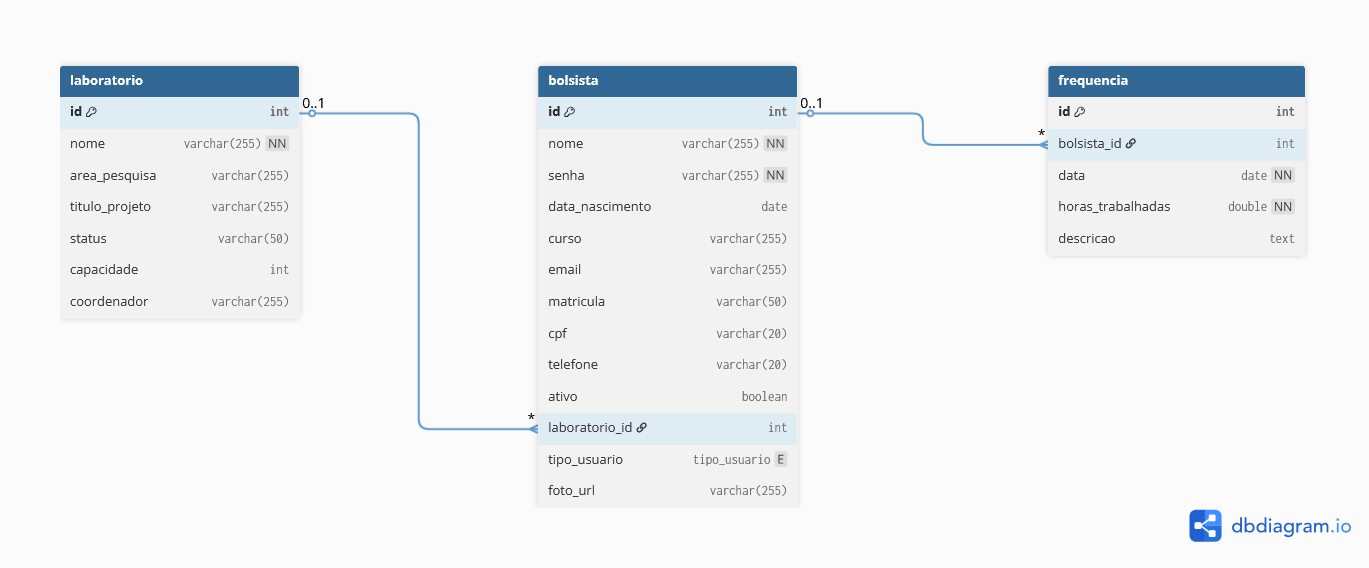
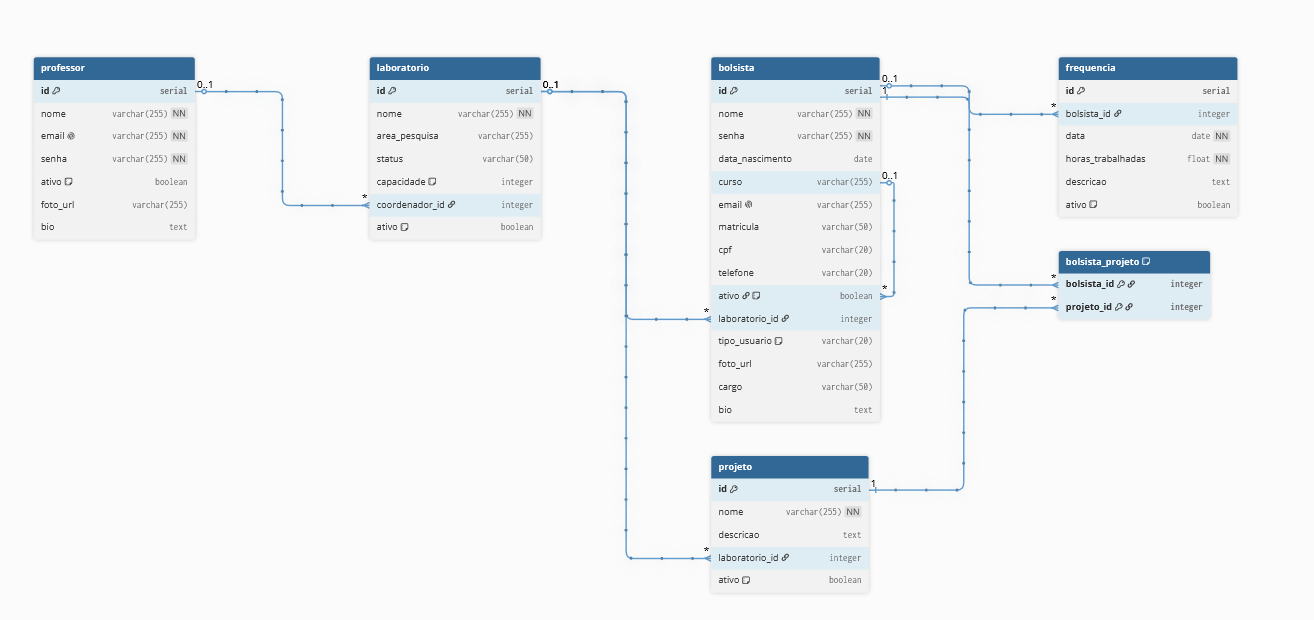
fix(docs): atualizar informações sobre testes e dados iniciais no README e instalacao.md

diff --git a/src/main/java/dev/matheus/cadastroBolsistas/service/LoginService.java b/src/main/java/dev/matheus/cadastroBolsistas/service/LoginService.java
@@ -3,6 +3,7 @@ package dev.matheus.cadastroBolsistas.service;
 import dev.matheus.cadastroBolsistas.dao.BolsistaDAO;
 import dev.matheus.cadastroBolsistas.dao.ProfessorDAO;
 import dev.matheus.cadastroBolsistas.model.Usuario;
+import dev.matheus.cadastroBolsistas.util.SecurityUtil;
 import org.springframework.beans.factory.annotation.Autowired;
 import org.springframework.stereotype.Service;
 
@@ -17,7 +18,7 @@ public class LoginService {
 
     public Usuario autenticar(String email, String senha) {
         try {
-            String senhaHash = dev.matheus.cadastroBolsistas.util.SecurityUtil.hashSenha(senha);
+            String senhaHash = SecurityUtil.hashSenha(senha);
             /*
              * primeiro tenta autenticar o usuario como bolsista ou administrador
              */

diff --git a/roteiro.md b/roteiro.md
@@ -1,0 +1,63 @@
+# Roteiro de Apresentacao — SisBolsa (Codigo)
+
+---
+
+## LoginService.java
+`service/LoginService.java`
+
+Aqui esta o service responsavel pelo login. O ponto mais importante e que a senha nunca chega ao banco em texto puro — antes de qualquer consulta, ela passa 
+pelo hashSenha da SecurityUtil, que gera um hash SHA-256. Alem disso, o sistema tenta autenticar primeiro como bolsista e, se nao encontrar, cai num fallback
+para professor. Os dois tipos de usuario usam a mesma tela de login e o sistema resolve internamente quem e quem.
+
+---
+
+## AuthInterceptor.java
+`config/AuthInterceptor.java`
+
+Esse e o interceptor de autenticacao — funciona como um porteiro. Toda requisicao que chega ao sistema passa pelo metodo preHandle antes de chegar a qualquer
+controller. Ele verifica se existe um usuario na sessao HTTP; se nao existir, redireciona para o login. 
+Ha uma lista de rotas publicas que ficam de fora dessa verificacao, como a tela de login e os arquivos de CSS e JavaScript. 
+Fora essas excecoes, nenhuma pagina e acessivel sem autenticacao.
+
+---
+
+## LaboratorioService.java
+`service/LaboratorioService.java`
+
+Esse service centraliza as regras de negocio dos laboratorios. O metodo podeGerenciar e chamado antes de qualquer edicao ou exclusao: se o usuario for admin,
+libera direto sem consultar o banco; se for professor, busca o laboratorio no banco e verifica se ele e o coordenador. 
+Tem tambem o metodo temVaga, que compara a capacidade maxima do lab com o numero atual de bolsistas vinculados — se estiver cheio, o cadastro e 
+bloqueado antes de chegar ao banco.
+
+---
+
+## BolsistaController.java
+`controller/BolsistaController.java`
+
+Aqui esta o controller que cuida do CRUD de bolsistas e professores. Cada acao tem sua propria rota Spring MVC — /bolsista/novo, /bolsista/editar, 
+/bolsista/excluir — sem o antigo padrao de parametro ?action= que misturava tudo em um metodo so. 
+Antes de salvar qualquer dado, o controller chama os metodos de validacao e verifica as permissoes do usuario logado. 
+Professores so conseguem editar bolsistas do proprio laboratorio; apenas admins mexem em outros professores.
+
+---
+
+## BolsistaDAO.java
+`dao/BolsistaDAO.java`
+
+Aqui esta a camada de acesso ao banco. O projeto usa JDBC direto, sem ORM, entao cada consulta e escrita manualmente em SQL. 
+Toda query usa PreparedStatement com parametros marcados com interrogacao — o banco recebe os valores separados da estrutura da query e 
+nunca interpreta o conteudo do usuario como codigo SQL, o que previne SQL injection. 
+O metodo extrairBolsista transforma uma linha do ResultSet em objeto Java coluna por coluna. 
+E as exclusoes sao logicas: o campo ativo e setado para false, o registro nunca e deletado fisicamente do banco.
+
+---
+
+## Ordem de abertura no IntelliJ
+
+1. `service/LoginService.java`
+2. `config/AuthInterceptor.java`
+3. `service/LaboratorioService.java`
+4. `controller/BolsistaController.java`
+5. `dao/BolsistaDAO.java`
+
+Abra todos antes de gravar e use Ctrl+Tab para alternar sem perder tempo.

diff --git a/instalacao.md b/instalacao.md
@@ -111,7 +111,7 @@ No IntelliJ IDEA:
 mvn test
 ```
 
-A suíte possui 52 testes unitários e de controller (JUnit 5 + Mockito + MockMvc).
+A suíte possui 78 testes unitários e de controller (JUnit 5 + Mockito + MockMvc).
 Nenhum teste requer banco de dados ativo — todos os DAOs são mockados.
 
 ---
@@ -131,25 +131,23 @@ O `db/init.sql` cria os seguintes usuários para teste:
 ### Administrador
 ```
 E-mail: [email redacted]
-Senha:  teste123
+Senha:  12345678
 Tipo:   ADMIN
 ```
 
 ### Professores coordenadores
 ```
[email redacted]   / teste123  → Lab de Inteligência Artificial
[email redacted]    / teste123  → Lab de Química Orgânica
[email redacted]   / teste123  → Lab de Robótica
[email redacted]   / teste123  → Lab de Redes e Segurança
[email redacted] / teste123  → Lab de Biotecnologia
[email redacted]    / teste123  → Lab de Energias Renováveis
[email redacted]  / 12345678  → Lab de Desenvolvimento de Software
[email redacted]     / 12345678  → Lab de Ciencias Biologicas
[email redacted]  / 12345678  → Lab de Engenharia Mecatronica
 ```
 
 ### Bolsistas (exemplos)
 ```
[email redacted]     / teste123  → Lab de IA
[email redacted]    / teste123  → Lab de Química Orgânica
[email redacted]   / teste123  → Lab de Robótica
[email redacted]    / 12345678  → Lab de Desenvolvimento de Software
[email redacted]    / 12345678  → Lab de Desenvolvimento de Software
[email redacted]   / 12345678  → Lab de Ciencias Biologicas
[email redacted]  / 12345678  → Lab de Engenharia Mecatronica
 ```
 
 > As senhas são armazenadas como hash SHA-256. O `init.sql` já contém os hashes
@@ -173,12 +171,12 @@ O arquivo `db/init.sql` cria e popula as seguintes tabelas:
 
 | Tabela | Conteúdo inicial |
 |---|---|
-| `professor` | 6 professores coordenadores |
-| `laboratorio` | 6 laboratórios vinculados aos professores |
-| `projeto` | 6 projetos (um por laboratório) |
-| `bolsista` | 10 bolsistas + 1 administrador |
+| `professor` | 3 professores coordenadores |
+| `laboratorio` | 3 laboratórios vinculados aos professores |
+| `projeto` | 6 projetos (2 por laboratório) |
+| `bolsista` | 7 bolsistas + 1 administrador |
 | `bolsista_projeto` | Vínculos entre bolsistas e projetos |
-| `frequencia` | Registros de horas de exemplo para cada bolsista |
+| `frequencia` | 28 registros de horas (4 por bolsista) |
 
 Para reiniciar o banco do zero:
 

diff --git a/README.md b/README.md
@@ -122,7 +122,7 @@ O sistema possui três perfis com permissões distintas:
 - Um bolsista pode participar de vários projetos (e vice-versa)
 - Um bolsista pode ter vários registros de frequência
 
-O script `db/init.sql` cria todas as tabelas e insere dados iniciais com 6 professores, 6 laboratórios, 6 projetos, 11 bolsistas/admins e frequências de exemplo.
+O script `db/init.sql` cria todas as tabelas e insere dados iniciais com 3 professores, 3 laboratórios, 6 projetos (2 por laboratório), 7 bolsistas, 1 admin e frequências de exemplo.
 
 ---
 
@@ -141,7 +141,7 @@ O script `db/init.sql` cria todas as tabelas e insere dados iniciais com 6 profe
 mvn test
 ```
 
-A suíte cobre 52 casos de teste sem dependência de banco de dados:
+A suíte cobre 78 casos de teste sem dependência de banco de dados:
 
 | Classe | Testes | Cobertura |
 |---|---|---|
@@ -153,6 +153,8 @@ A suíte cobre 52 casos de teste sem dependência de banco de dados:
 | `LaboratorioServiceTest` | 9 | `podeGerenciar()` e `temVaga()` por perfil e cenário |
 | `BolsistaServiceTest` | 8 | `podeGerenciar()` e `inserir()` com todos os perfis |
 | `LoginControllerTest` | 4 | GET/POST com MockMvc, redirect e sessão |
+| `ProfessorServiceTest` | 9 | CRUD completo via mock do DAO |
+| `PerfilControllerTest` | 17 | GET/POST com sessão, validações, troca de senha, null do banco |
 
 ---
 
@@ -198,5 +200,5 @@ Acesse: `http://localhost:8080`
 
 ```
 E-mail: [email redacted]
-Senha:  teste123
+Senha:  12345678
 ```